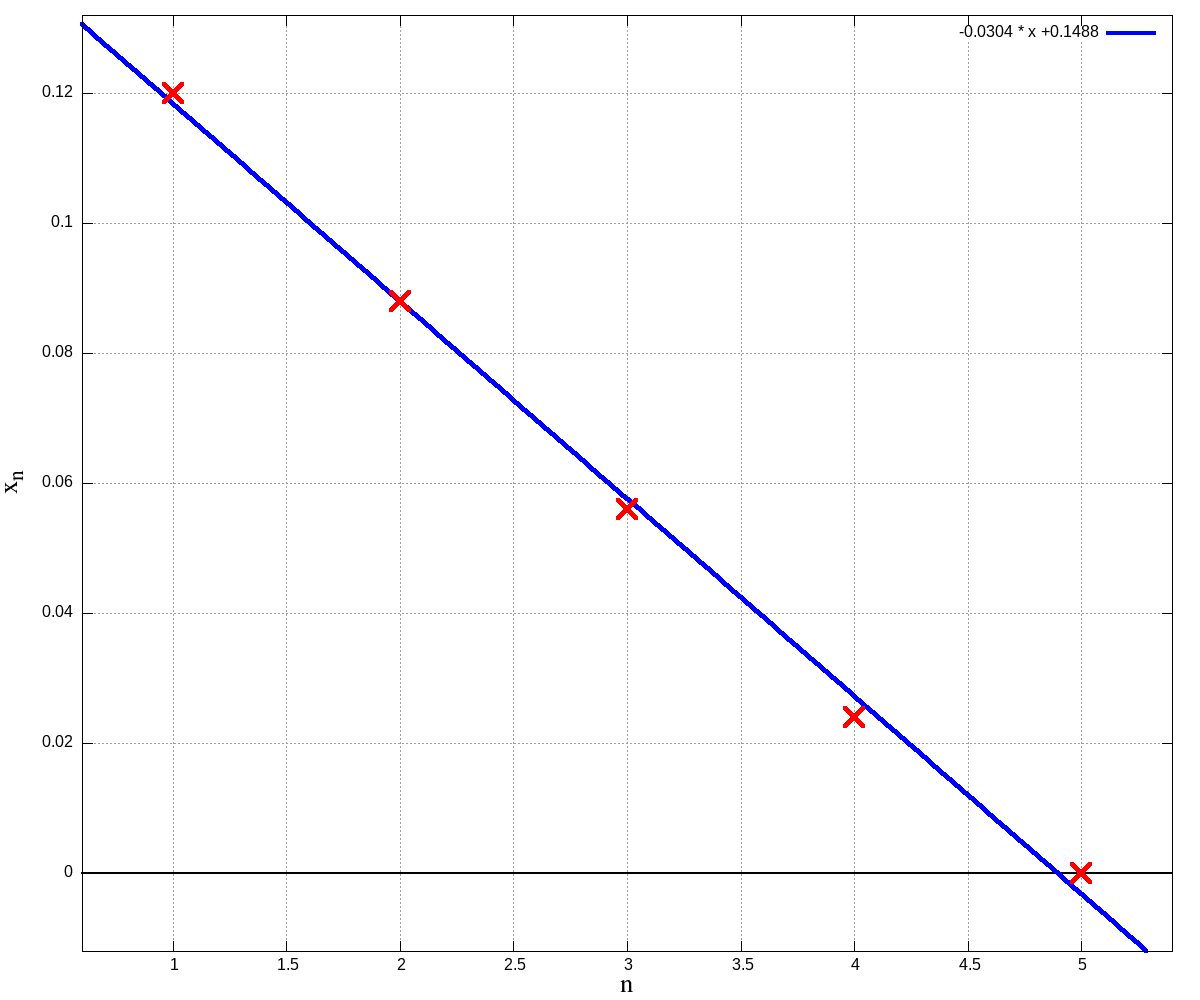
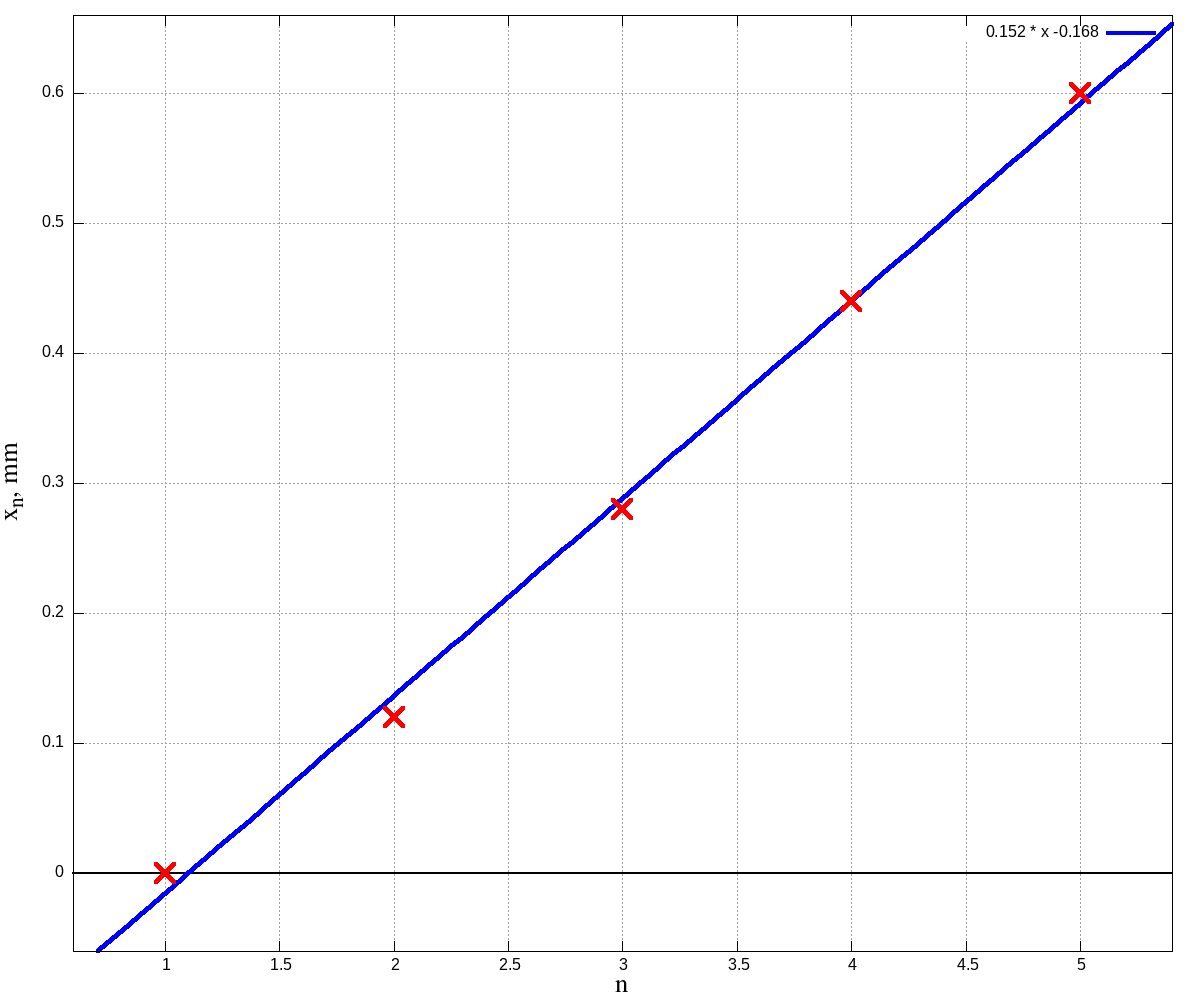
fix lab 4-3-1

diff --git a/optics/4-3-1/main.tex b/optics/4-3-1/main.tex
@@ -113,7 +113,7 @@
   \begin{tabular}{|c|c|c|c|c|c|}
     \hline
    \(n\)           &  1    & 2     &  3    &  4    &  5    \\\hline
-   \(x_n,\;mm\)    & 0.120 & 0.088 & 0.056 & 0.024 & 0.000 \\\hline
+   \(x_n,\;mm\)    & 0.00 & 0.12 & 0.28 & 0.44 & 0.60 \\\hline
   \end{tabular}
 \end{table}
 
@@ -123,16 +123,16 @@
   \includegraphics[width=0.8\textwidth]{fgfr.png}
 \end{figure}
 Полученная зависимость вида \(x_n = kn + b\):
-\[ k = (-0.030 \pm 0.001)\;mm \]
-\[ b = (0.149 \pm 0.001)\;mm \]
+\[ k = (0.152 \pm 0.004)\;mm \]
+\[ b = (-0.168 \pm 0.005)\;mm \]
 
 Итого среднее расстояние \(\Delta x\) между соседними минимумами:
-\[ \Delta x = (0.030 \pm 0.001)\; mm \]
+\[ \Delta x = (0.152 \pm 0.004)\; mm \]
 При этом из формулы:
 \[ x_m = m \frac{\lambda}{b}f_2 \]
 вычислим значение b:
-\[ b = \frac{\lambda f_2}{k} = (2.2 \pm 0.0)\;mm\]
-Это значение на порядок отличается от реального \(b = 0.34\;mm\)
+\[ b = \frac{\lambda f_2}{k} = (0.40 \pm 0.00)\;mm\]
+Это значение близко к реальному (Измеренному по шкале микрометрического винта) \(b = 0.34\;mm\)
 
 \subsection{Дифракция Фраунгофера на двух щелях}
 Не перемещая линз и микроскопа заменим щель \(S_1\) на щель \(S_2\) и найдём резкое изображение.
@@ -147,26 +147,25 @@
 \subsubsection{}
 Определим с помощью шкалы микроскопа растояние между самыми удалёнными друг от друга тёмными полосами
 внутри центрального максимума:
-\[ l = (0.14 \pm 0.02)\;mm \]
+\[ l = (0.70 \pm 0.04)\;mm \]
 Число светлых промежутков между ними:
 \[ N = 8\pm 0 \]
 Определим расстояние \(\delta x\) между соседними минимумами:
-\[ \delta x = \frac{l}{N} = (0.018\pm 0.003)\; mm \]
+\[ \delta x = \frac{l}{N} = (0.088\pm 0.005)\; mm \]
 
 Определим расстояние между щелями \(d\) по формуле:
 \[ \delta x = f_2\frac{\lambda}{d} \]
-\[ d = f_2\frac{\lambda}{\delta x} = (3.8\pm 0.6)\;mm \]
+\[ d = f_2\frac{\lambda}{\delta x} = (0.76\pm 0.03)\;mm \]
 
 Измерив то же расстояние с помощью микроскопа:
-\[ d = (0.84\pm 0.02)\;mm \]
-Значения снова разошлись на 1 порядок.
-
+\[ d = (0.84\pm 0.04)\;mm \]
+Значения отличаются на 2 величины погрешности.
 \subsubsection{}
 Расширяя входную щель определим её размер при котором наступает первое исчезновение интерференционных полос:
-\[ b_0 = (0.08\pm 0.01)\;mm \]
+\[ b_0 = (0.40\pm 0.04)\;mm \]
 
 Теперь получим значение \(b_0\) из формулы:
-\[ \frac{b_0}{f_1} = \frac{\lambda}{d} \Rightarrow b_0 = f_1\frac{\lambda}{d} = (0.008 \pm 0.002\;mm)\]
+\[ \frac{b_0}{f_1} = \frac{\lambda}{d} \Rightarrow b_0 = f_1\frac{\lambda}{d} = (0.39 \pm 0.01)\;mm\]
 Значения и сейчас разошлись на порядок.
 
 \section{Выводы}
@@ -174,12 +173,10 @@
 \begin{enumerate}
   \item Были изучены различные виды дифракции: Френеля, и Фраунгофера на щели и на двух щелях.
   \item Были измерены различные параметры установки:
-  \[ b = (2.2 \pm 0.0)\;mm \]
-  \[ b_0 = (0.08\pm 0.01)\;mm \]
-  \[ d = (3.8\pm 0.6)\;mm \]
-  Все эти величины оказались на 1 порядок больше измеренных напрямую. Это может говорить как о неточности измерений
-  (В ходе выполнения работы часто тяжело было понять сколько именно интерференционных полос видно и когда они 
-  начинают исчезать), так и об ошибках в последующих вычислениях, которых мне обнаружить не удалось.
+  \[ b =  (0.40 \pm 0.00)\;mm \]
+  \[ b_0 = (0.39\pm 0.01)\;mm \]
+  \[ d = (0.76\pm 0.03)\;mm \]
+  Все эти измеренные величины достаточно точно совпадают с померенными напрямую, что может говорить о корректности наших методов.
 \end{enumerate}
 
 \end{document}
